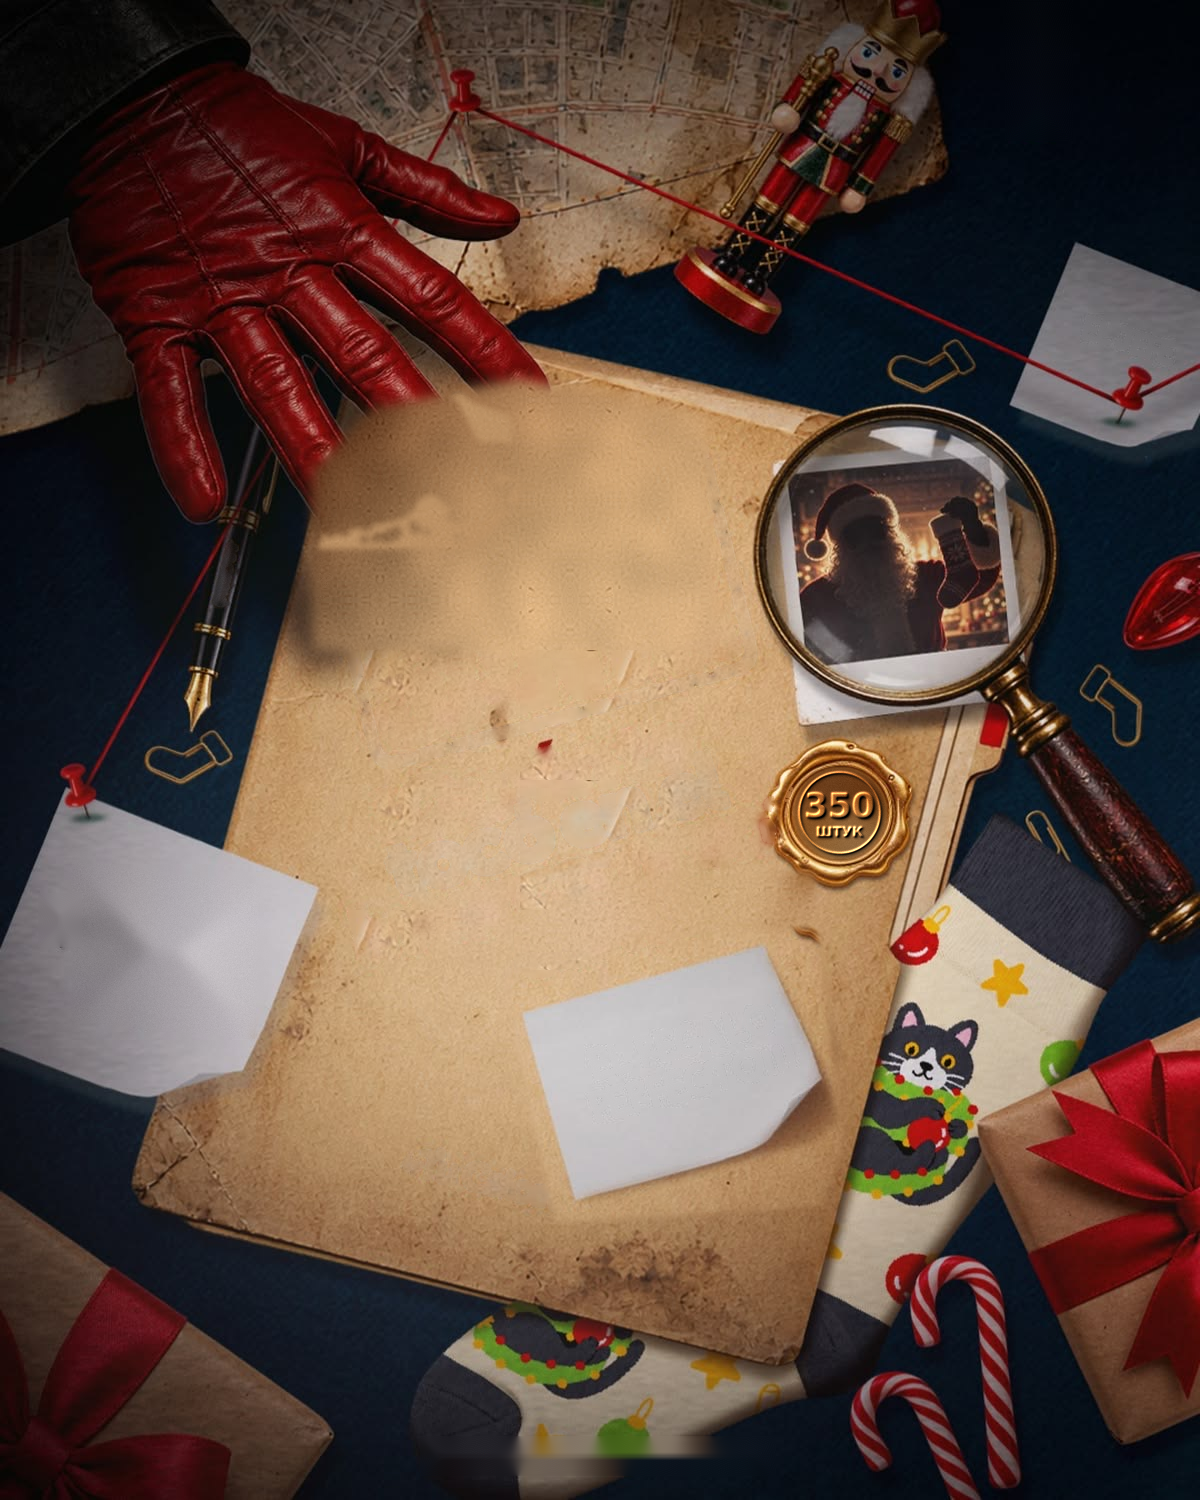
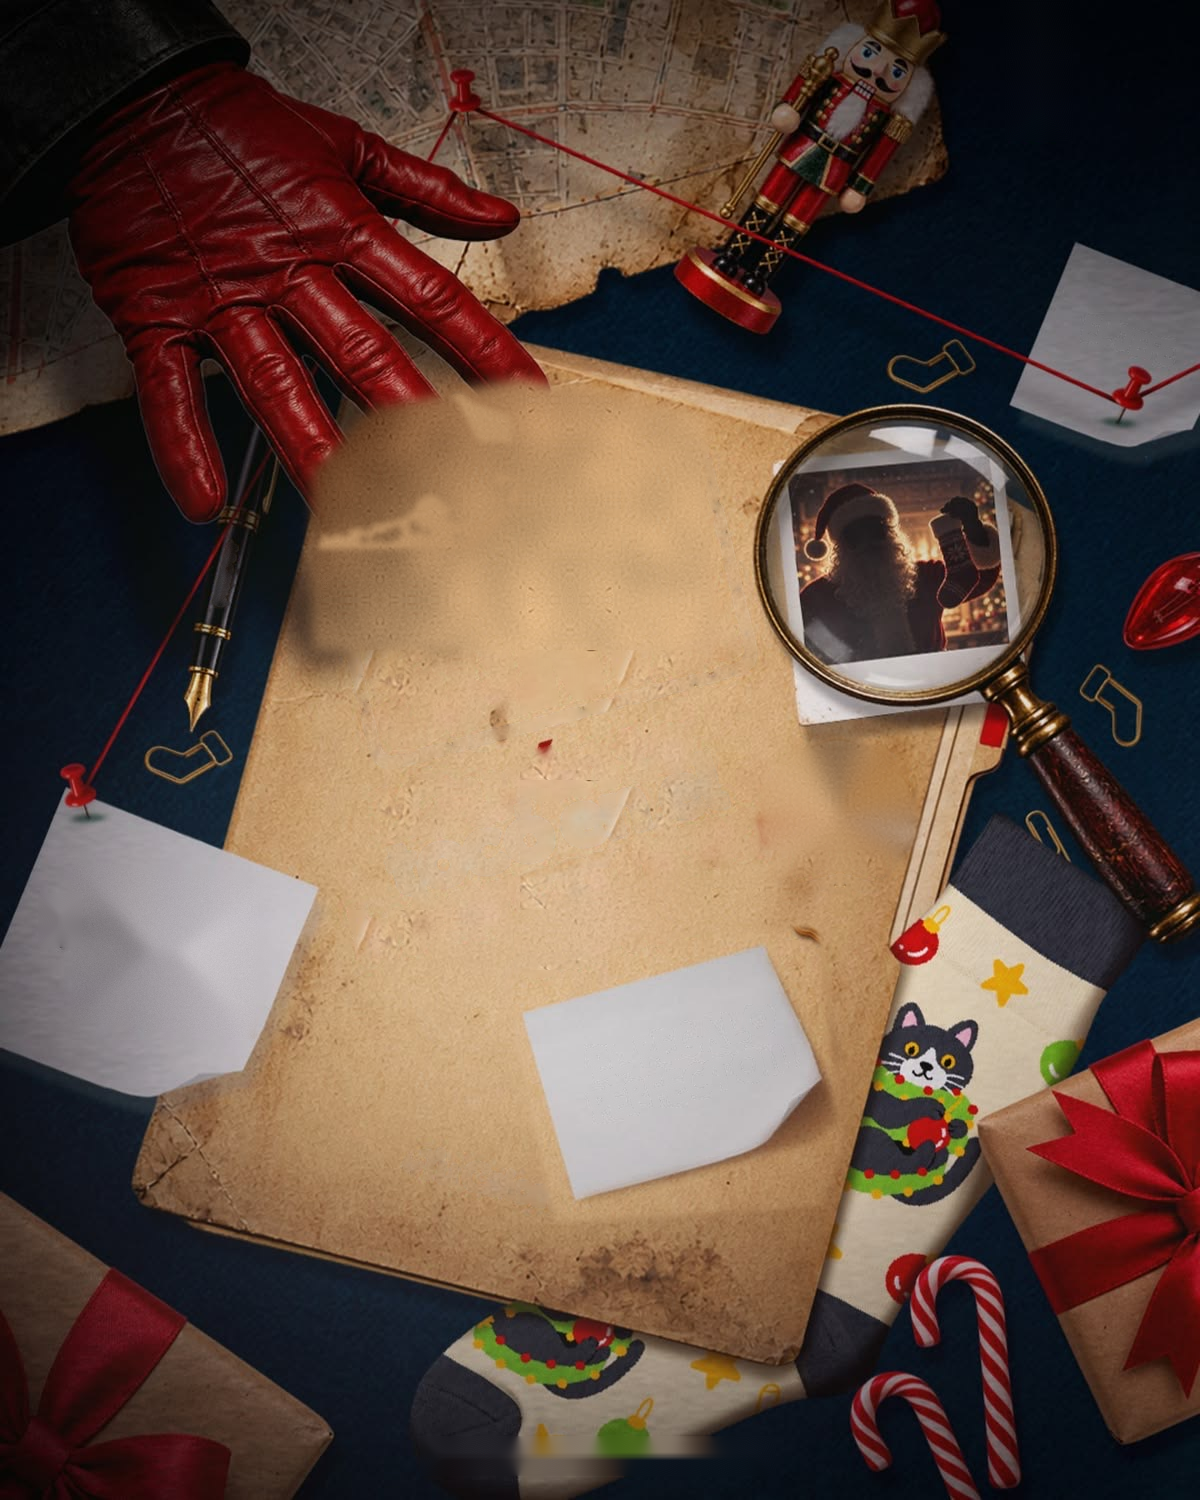
Dossier posters: remove wax seal, add prominent date/venue tape
Claude-Session: https://claude.ai/code/session_01LLSo5JLaudvGqWrWmnB6UY

Changed region(s): [[0.6167, 0.4907, 0.7708, 0.6133]]

diff --git a/posters/disco90_dossier_note.html b/posters/disco90_dossier_note.html
@@ -31,6 +31,13 @@ body{width:1200px;height:1500px;overflow:hidden}
 .logo2{right:34px;top:26px;display:flex;align-items:center;gap:10px;color:#fff;filter:drop-shadow(0 2px 6px rgba(0,0,0,.6))}
 .logo2 img{height:48px;filter:brightness(0) invert(1)}
 .logo2 .t1{font:300 12.5px 'Montserrat';letter-spacing:1px}.logo2 .t2{font:700 21px 'Montserrat';margin-top:3px}
+
+.tape{left:-60px;right:-60px;top:1352px;height:86px;transform:rotate(-4deg);background:linear-gradient(180deg,#c2262a,#a51b1f);
+ box-shadow:0 10px 18px rgba(0,0,0,.5),inset 0 2px 0 rgba(255,255,255,.18),inset 0 -2px 0 rgba(0,0,0,.25);display:flex;align-items:center;justify-content:center;gap:26px;
+ font:900 46px/1 'Montserrat';letter-spacing:2px;color:#fff6ec;text-shadow:0 2px 0 rgba(80,0,0,.45);filter:url(#ink)}
+.tape i{font-style:normal;color:#ffd36b;font-size:30px}
+.tape:before,.tape:after{content:"";position:absolute;left:0;right:0;height:5px;background:repeating-linear-gradient(90deg,#fff6ec 0 22px,transparent 22px 34px);opacity:.85}
+.tape:before{top:8px}.tape:after{bottom:8px}
 </style></head><body><div class="p">
 <svg width="0" height="0" style="position:absolute">
  <filter id="rubber" x="-5%" y="-5%" width="110%" height="110%"><feTurbulence type="fractalNoise" baseFrequency=".06 .1" numOctaves="4" seed="11" result="n"/>
@@ -50,6 +57,6 @@ body{width:1200px;height:1500px;overflow:hidden}
 <div class="a note" style="left:62px;top:900px;width:210px;font-size:36px;line-height:1;transform:rotate(3deg)">Счастливый<br>билет<br>…</div>
 <div class="a note" style="left:1060px;top:310px;width:130px;font-size:30px;transform:rotate(4deg)">Дед Мороз</div>
 <div class="a note" style="left:572px;top:1018px;width:230px;font-size:38px;transform:rotate(-9deg)">5 подарков<br>от Деда<br>Мороза!!!</div>
+<div class="a tape">14 ДЕКАБРЯ<i>●</i>18:30<i>●</i>КЛУБ PRAVDA</div>
 <div class="a logo2"><img src="brics_emblem.png"><div><div class="t1">УНИВЕРСИТЕТСКИЙ</div><div class="t2">КОЛЛЕДЖ БРИКС</div></div></div>
-<div class="a foot">14 ДЕКАБРЯ<span>●</span>18:30<span>●</span>КЛУБ PRAVDA</div>
 </div><script>document.fonts.ready.then(()=>document.body.dataset.done=1)</script></body></html>

diff --git a/posters/disco90_dossier.html b/posters/disco90_dossier.html
@@ -31,6 +31,13 @@ body{width:1200px;height:1500px;overflow:hidden}
 .logo2{right:34px;top:26px;display:flex;align-items:center;gap:10px;color:#fff;filter:drop-shadow(0 2px 6px rgba(0,0,0,.6))}
 .logo2 img{height:48px;filter:brightness(0) invert(1)}
 .logo2 .t1{font:300 12.5px 'Montserrat';letter-spacing:1px}.logo2 .t2{font:700 21px 'Montserrat';margin-top:3px}
+
+.tape{left:-60px;right:-60px;top:1352px;height:86px;transform:rotate(-4deg);background:linear-gradient(180deg,#c2262a,#a51b1f);
+ box-shadow:0 10px 18px rgba(0,0,0,.5),inset 0 2px 0 rgba(255,255,255,.18),inset 0 -2px 0 rgba(0,0,0,.25);display:flex;align-items:center;justify-content:center;gap:26px;
+ font:900 46px/1 'Montserrat';letter-spacing:2px;color:#fff6ec;text-shadow:0 2px 0 rgba(80,0,0,.45);filter:url(#ink)}
+.tape i{font-style:normal;color:#ffd36b;font-size:30px}
+.tape:before,.tape:after{content:"";position:absolute;left:0;right:0;height:5px;background:repeating-linear-gradient(90deg,#fff6ec 0 22px,transparent 22px 34px);opacity:.85}
+.tape:before{top:8px}.tape:after{bottom:8px}
 </style></head><body><div class="p">
 <svg width="0" height="0" style="position:absolute">
  <filter id="rubber" x="-5%" y="-5%" width="110%" height="110%"><feTurbulence type="fractalNoise" baseFrequency=".06 .1" numOctaves="4" seed="11" result="n"/>
@@ -56,6 +63,6 @@ body{width:1200px;height:1500px;overflow:hidden}
 <div>— Дед Мороз и Снегурочка</div>
 <div>— дискотека под легендарные хиты 90-х</div>
 <div class="r2">На входе каждый студент получит билет<br>(350 шт.). В финале обладатели 5 счастливых<br>билетов получат подарки от Деда Мороза!</div></div>
+<div class="a tape">14 ДЕКАБРЯ<i>●</i>18:30<i>●</i>КЛУБ PRAVDA</div>
 <div class="a logo2"><img src="brics_emblem.png"><div><div class="t1">УНИВЕРСИТЕТСКИЙ</div><div class="t2">КОЛЛЕДЖ БРИКС</div></div></div>
-<div class="a foot">14 ДЕКАБРЯ<span>●</span>18:30<span>●</span>КЛУБ PRAVDA</div>
 </div><script>document.fonts.ready.then(()=>document.body.dataset.done=1)</script></body></html>

diff --git a/posters/make_seal.py b/posters/make_seal.py
@@ -155,3 +155,14 @@ dy=60;M=np.float32([[1,0,0],[0,1,dy]])
 oldS=cv2.warpAffine(old,M,(W,H));nmS=cv2.warpAffine(nm,M,(W,H))
 f=cv2.GaussianBlur(nmS.astype(np.float32),(0,0),3)[...,None]/255
 cv2.imwrite(P+'bg_dossier2_note.png',np.clip(oldS*f+im*(1-f),0,255).astype(np.uint8))
+
+# --- remove the wax seal completely (both variants) ---
+for name in ['bg_dossier2.png','bg_dossier2_note.png']:
+    im=cv2.imread(P+name);imf=im.astype(np.float32)
+    sm_=np.zeros((H,W),np.uint8);cv2.circle(sm_,(838,815),80,255,-1)
+    s4=cv2.resize(im,(W//2,H//2),interpolation=cv2.INTER_AREA);m4=cv2.resize(sm_,(W//2,H//2),interpolation=cv2.INTER_NEAREST)
+    low=cv2.GaussianBlur(cv2.resize(cv2.inpaint(s4,m4,8,cv2.INPAINT_TELEA),(W,H),interpolation=cv2.INTER_CUBIC).astype(np.float32),(0,0),3)
+    src=imf[600:700,580:700];hp=src-cv2.GaussianBlur(src,(0,0),3)
+    t=np.concatenate([hp,hp[:,::-1]],1);t=np.concatenate([t,t[::-1]],0);tile=np.tile(t,(H//t.shape[0]+1,W//t.shape[1]+1,1))[:H,:W]
+    f=cv2.GaussianBlur(sm_.astype(np.float32),(0,0),4)[...,None]/255
+    cv2.imwrite(P+name,np.clip((low+tile*.8)*f+imf*(1-f),0,255).astype(np.uint8))
